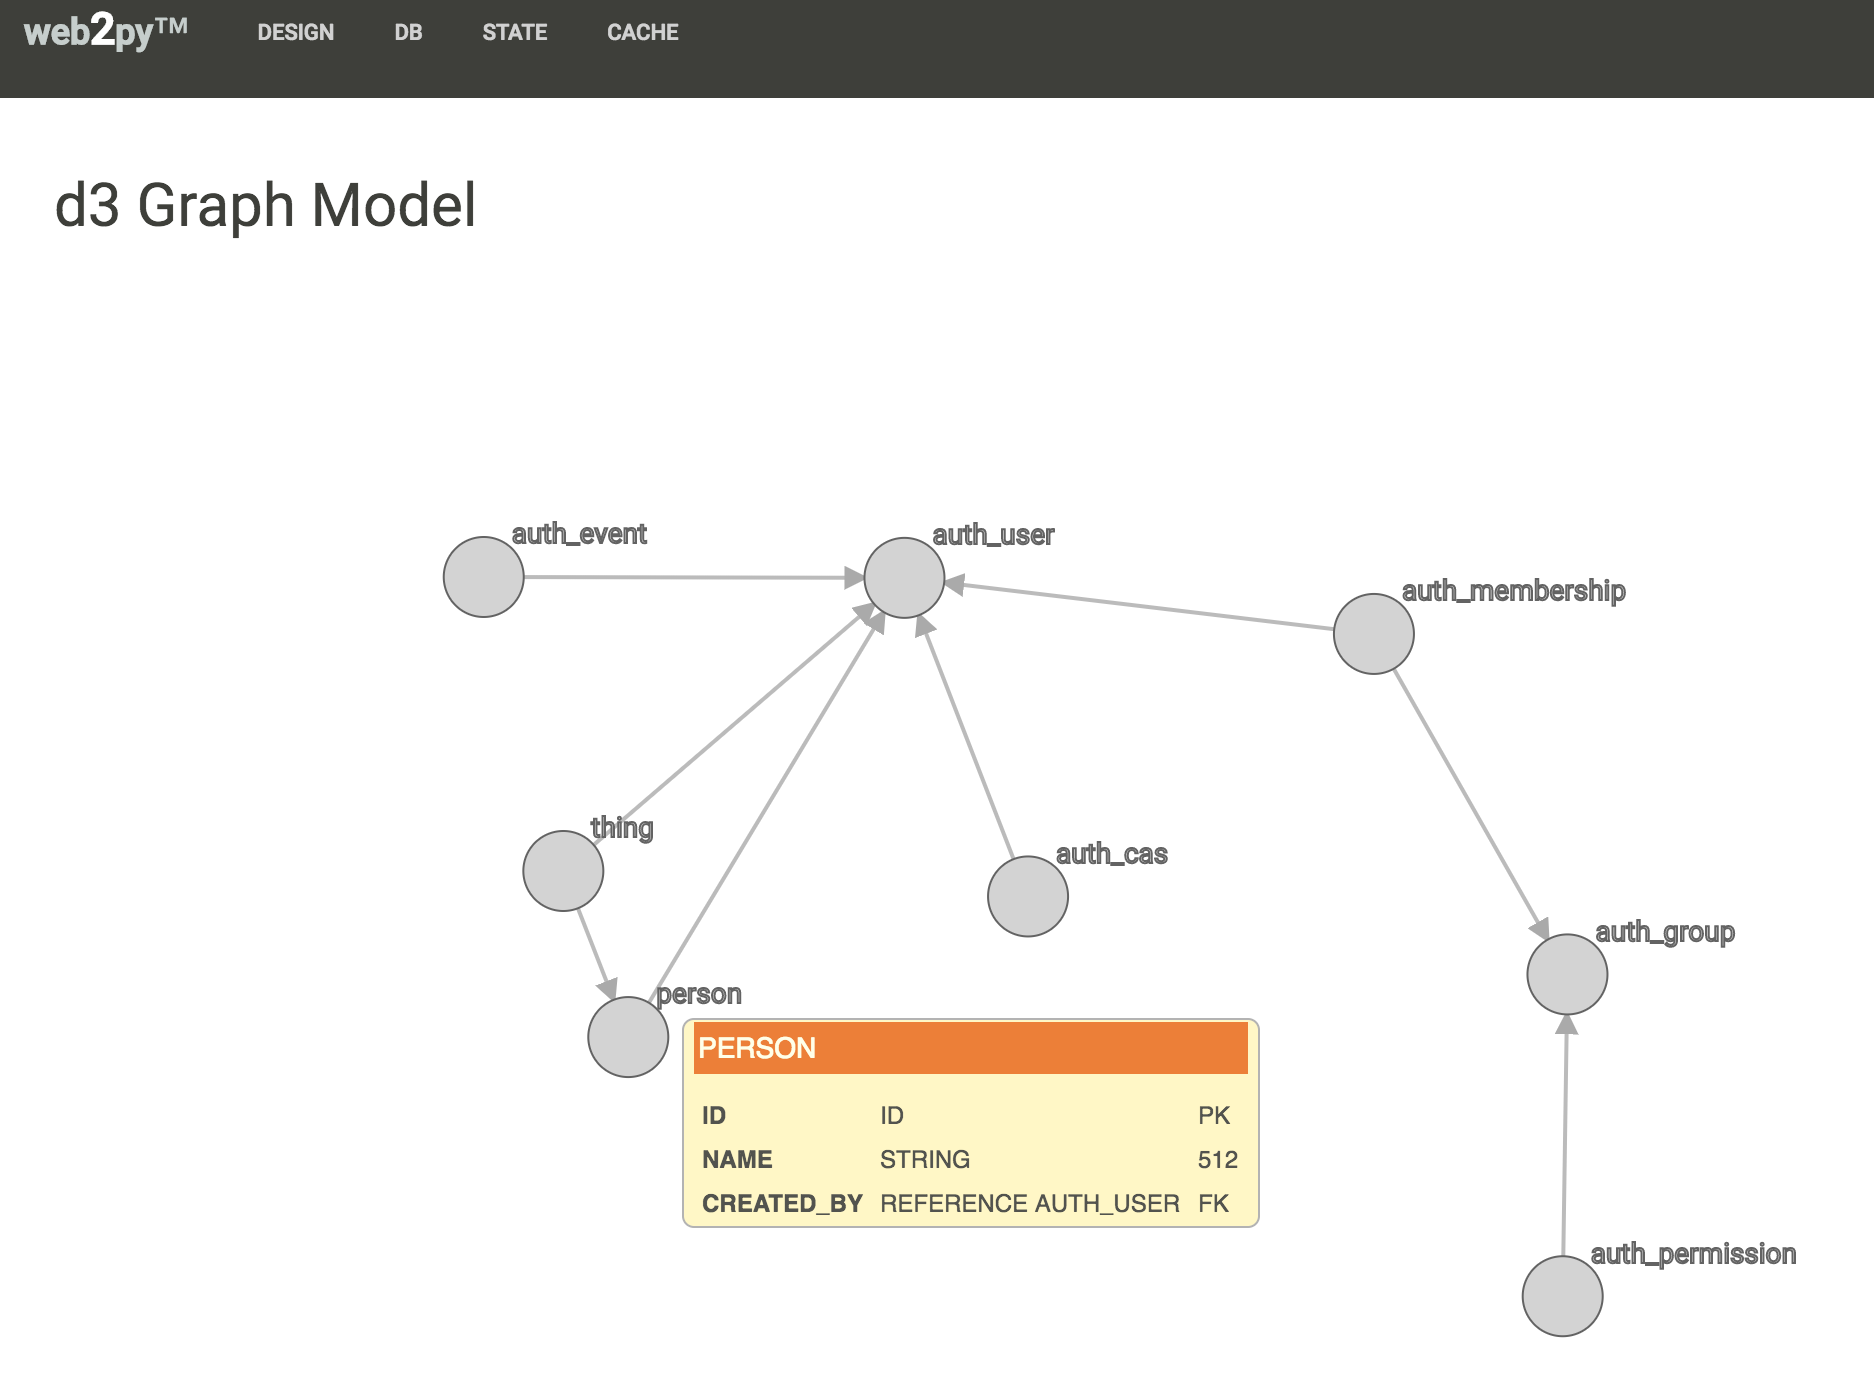
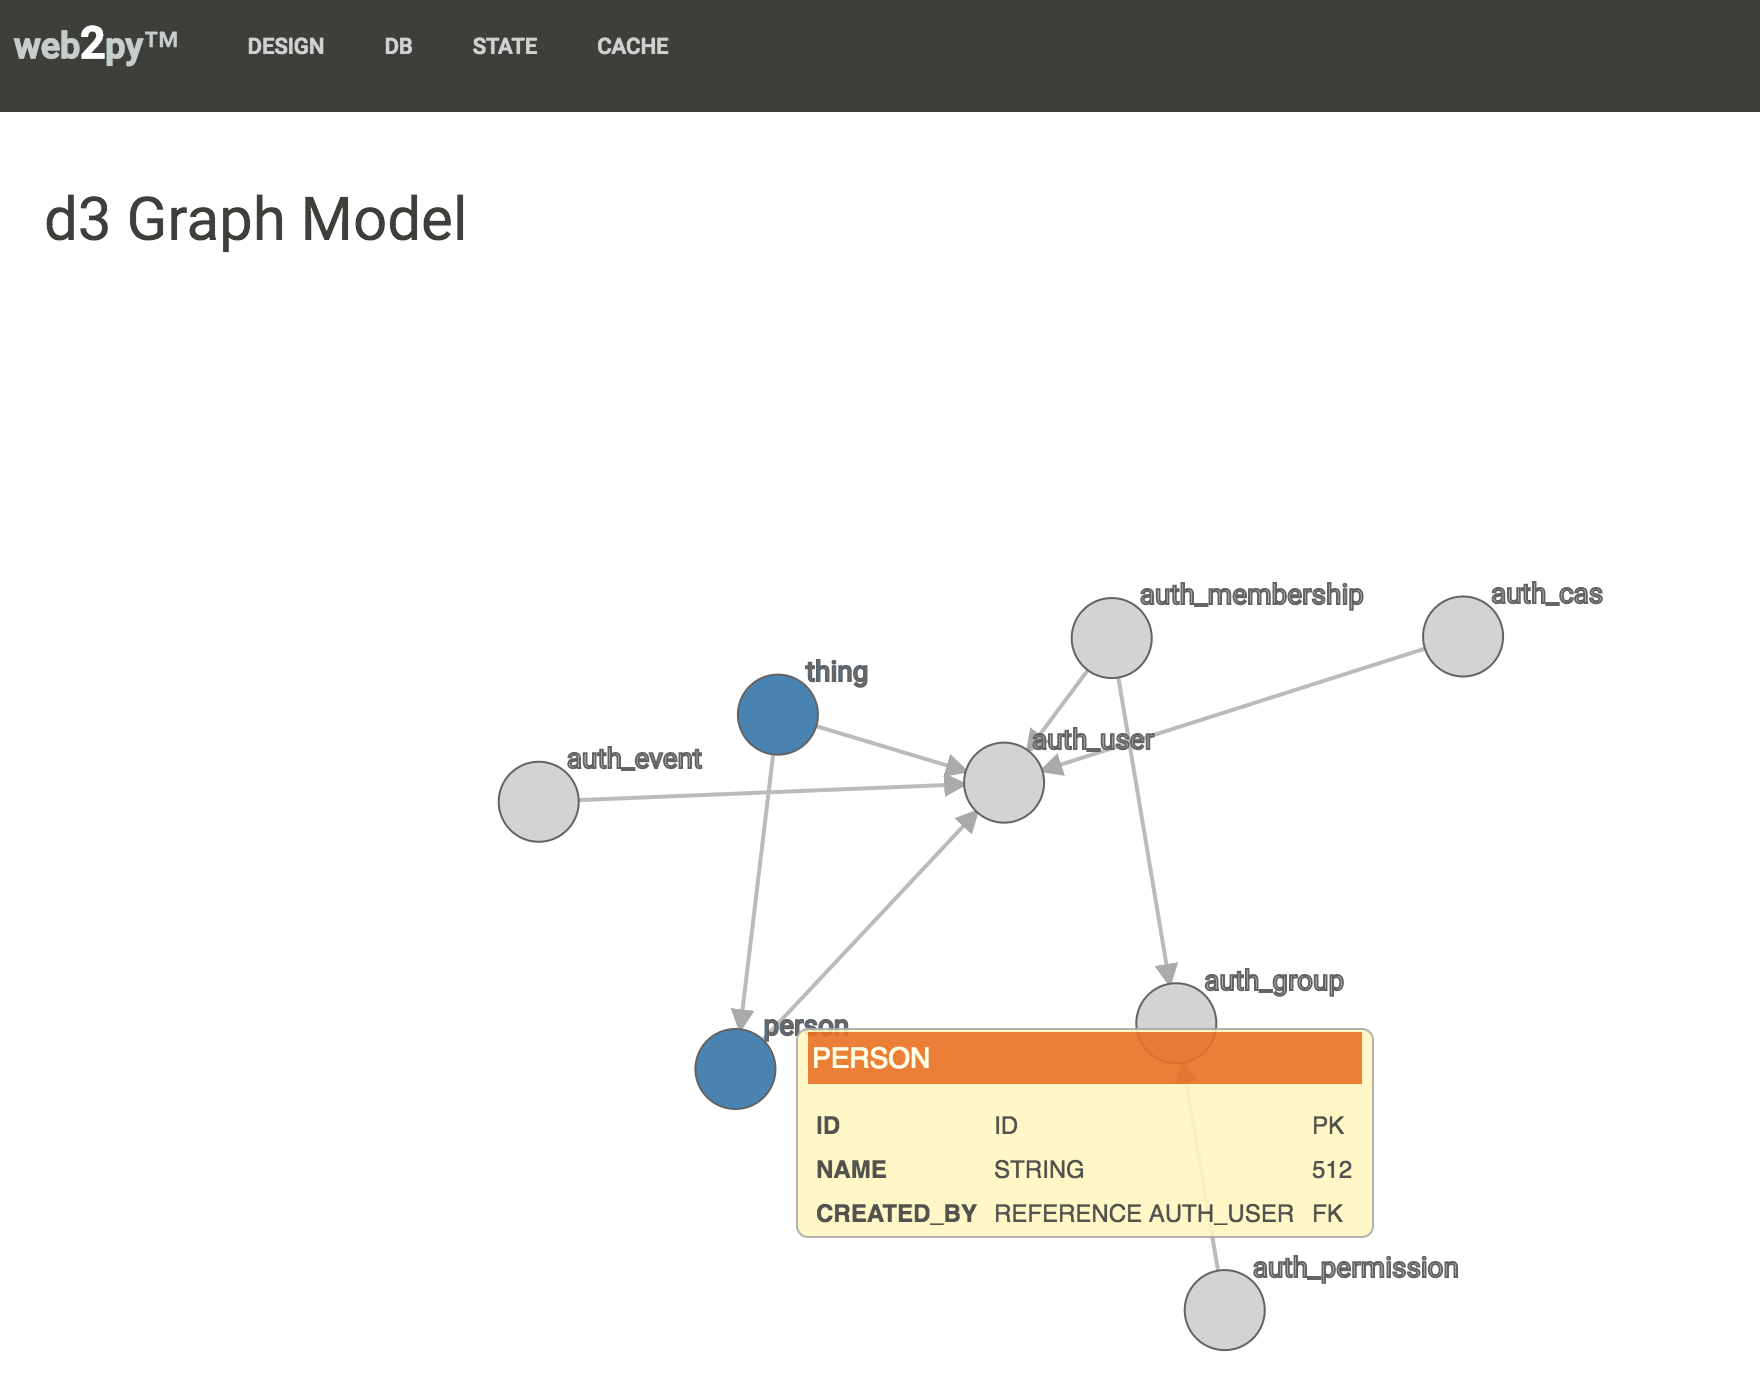
style for auth tables

diff --git a/views/appadmin.html b/views/appadmin.html
@@ -265,9 +265,11 @@
 </div>
 
 <style>
-    .node {fill: lightgrey;
+    .node {fill: steelblue;
            stroke: #636363;
            stroke-width: 1px;}
+
+    .auth {fill: lightgrey;}
 
     .table {r: 10;}
 
@@ -334,11 +336,6 @@
         e.target["linkcount"]++;
     })
 
-    nodes.forEach(function(n) {
-      console.log(n.name);
-      console.log(n.name + " " + n["linkcount"]);
-    })
-
     var width = 960, height = 600;
     var svg = d3.select("#vis").append("svg")
             .attr("width", width)
@@ -389,6 +386,8 @@ simulation.force("link")
             .data(nodes)
             .enter().append("g")
             .attr("class", function(d) { return "node " + d.type;})
+            .attr("x", function(d) {return d.name.startsWith("auth") ? 0 : 960;})
+            .classed("auth", function(d) { return (d.name.startsWith("auth") ? true : false);})
             .call(d3.drag()
               .on("start", dragstarted)
               .on("drag", dragged)
